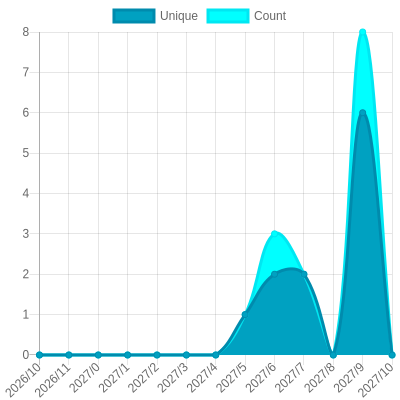
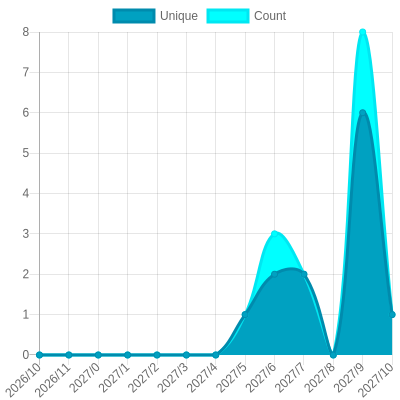
Update views

Changed region(s): [[0.9, 0.24, 0.99, 0.84], [0.96, 0.87, 0.99, 0.9], [0.87, 0.27, 0.9, 0.3]]

diff --git a/readme/658716039/year.md b/readme/658716039/year.md
@@ -23,10 +23,10 @@
 			<code>2026/11/1</code>
 		</td>
 		<td>
-			<code>0</code>
+			<code>1</code>
 		</td>
 		<td>
-			<code>0</code>
+			<code>1</code>
 		</td>
 	</tr>
 	<tr>
@@ -164,7 +164,7 @@
 </table>
 
 </details>
-<small><i>Last updated on 2026/11/3 12:49 AM UTC</i></small>
+<small><i>Last updated on 2026/11/3 1:57 PM UTC</i></small>
 
 ## ✂Copy and 📋 Paste
 ### SVG Badge

diff --git a/README.md b/README.md
@@ -69,7 +69,7 @@ The project created and maintained by [gayanvoice](https://github.com/gayanvoice
 	</tr>
 </table>
 
-<small><i>Last updated on 2026/11/3 12:49 AM UTC</i></small>
+<small><i>Last updated on 2026/11/3 1:57 PM UTC</i></small>
 
 ## ✂Copy and 📋 Paste
 ### Total Views Badge

diff --git a/readme/1013951127/year.md b/readme/1013951127/year.md
@@ -164,7 +164,7 @@
 </table>
 
 </details>
-<small><i>Last updated on 2026/11/3 12:49 AM UTC</i></small>
+<small><i>Last updated on 2026/11/3 1:57 PM UTC</i></small>
 
 ## ✂Copy and 📋 Paste
 ### SVG Badge

diff --git a/readme/891247015/year.md b/readme/891247015/year.md
@@ -164,7 +164,7 @@
 </table>
 
 </details>
-<small><i>Last updated on 2026/11/3 12:49 AM UTC</i></small>
+<small><i>Last updated on 2026/11/3 1:57 PM UTC</i></small>
 
 ## ✂Copy and 📋 Paste
 ### SVG Badge
